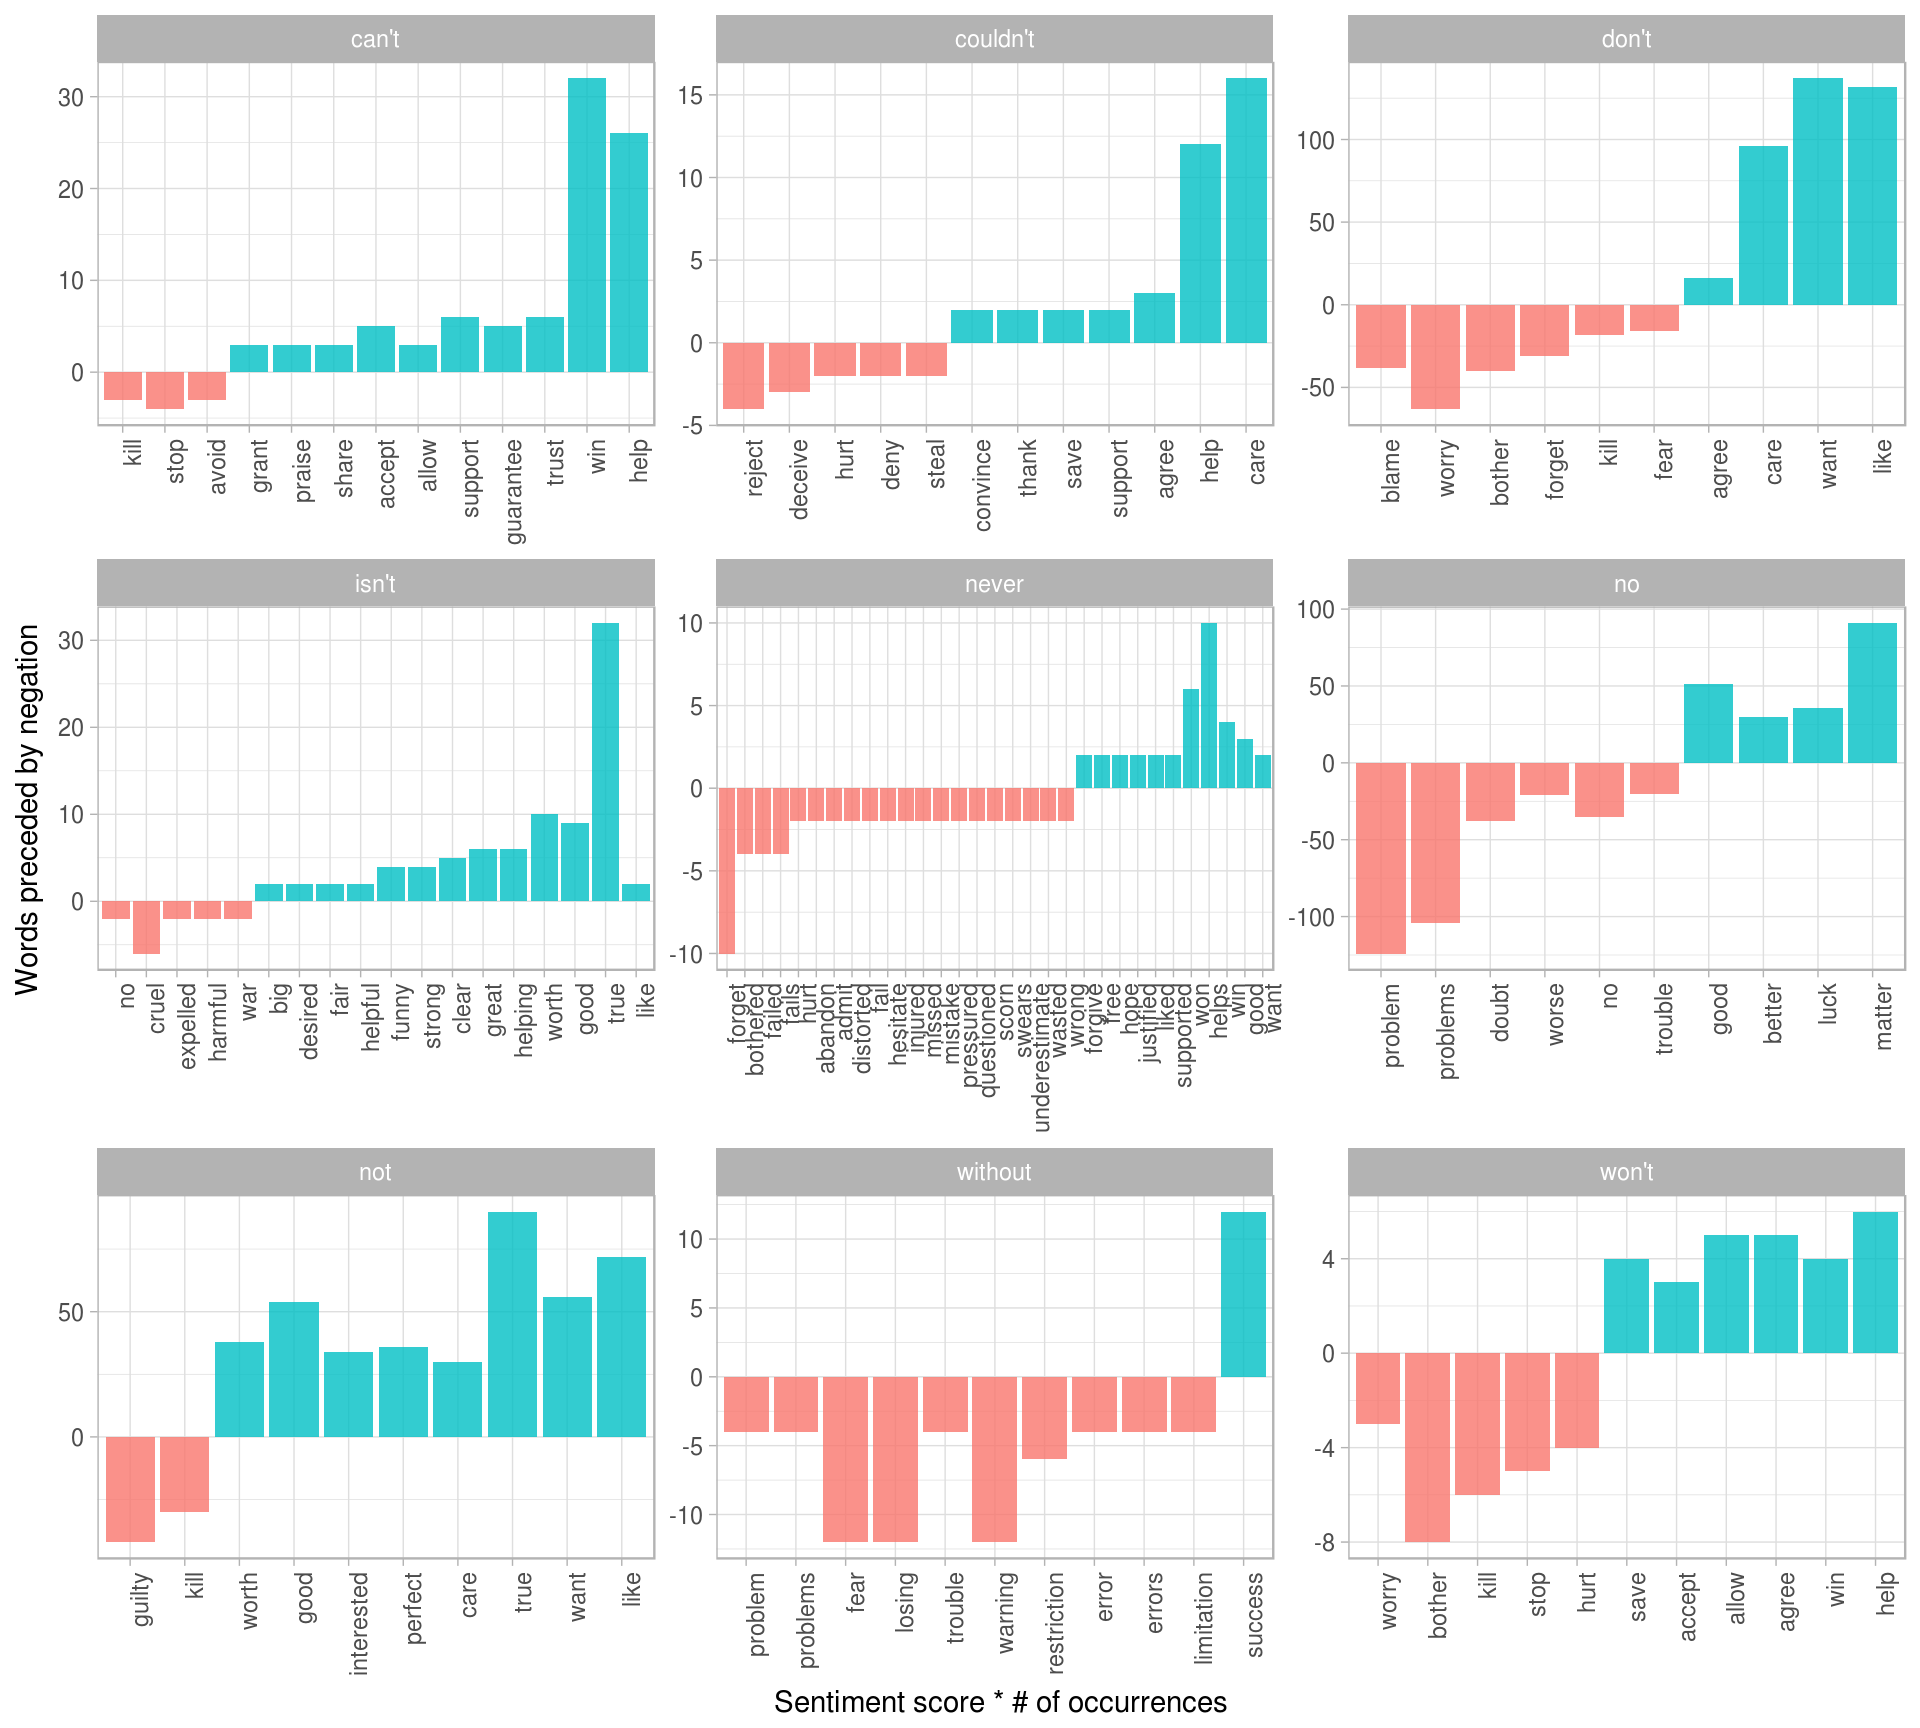
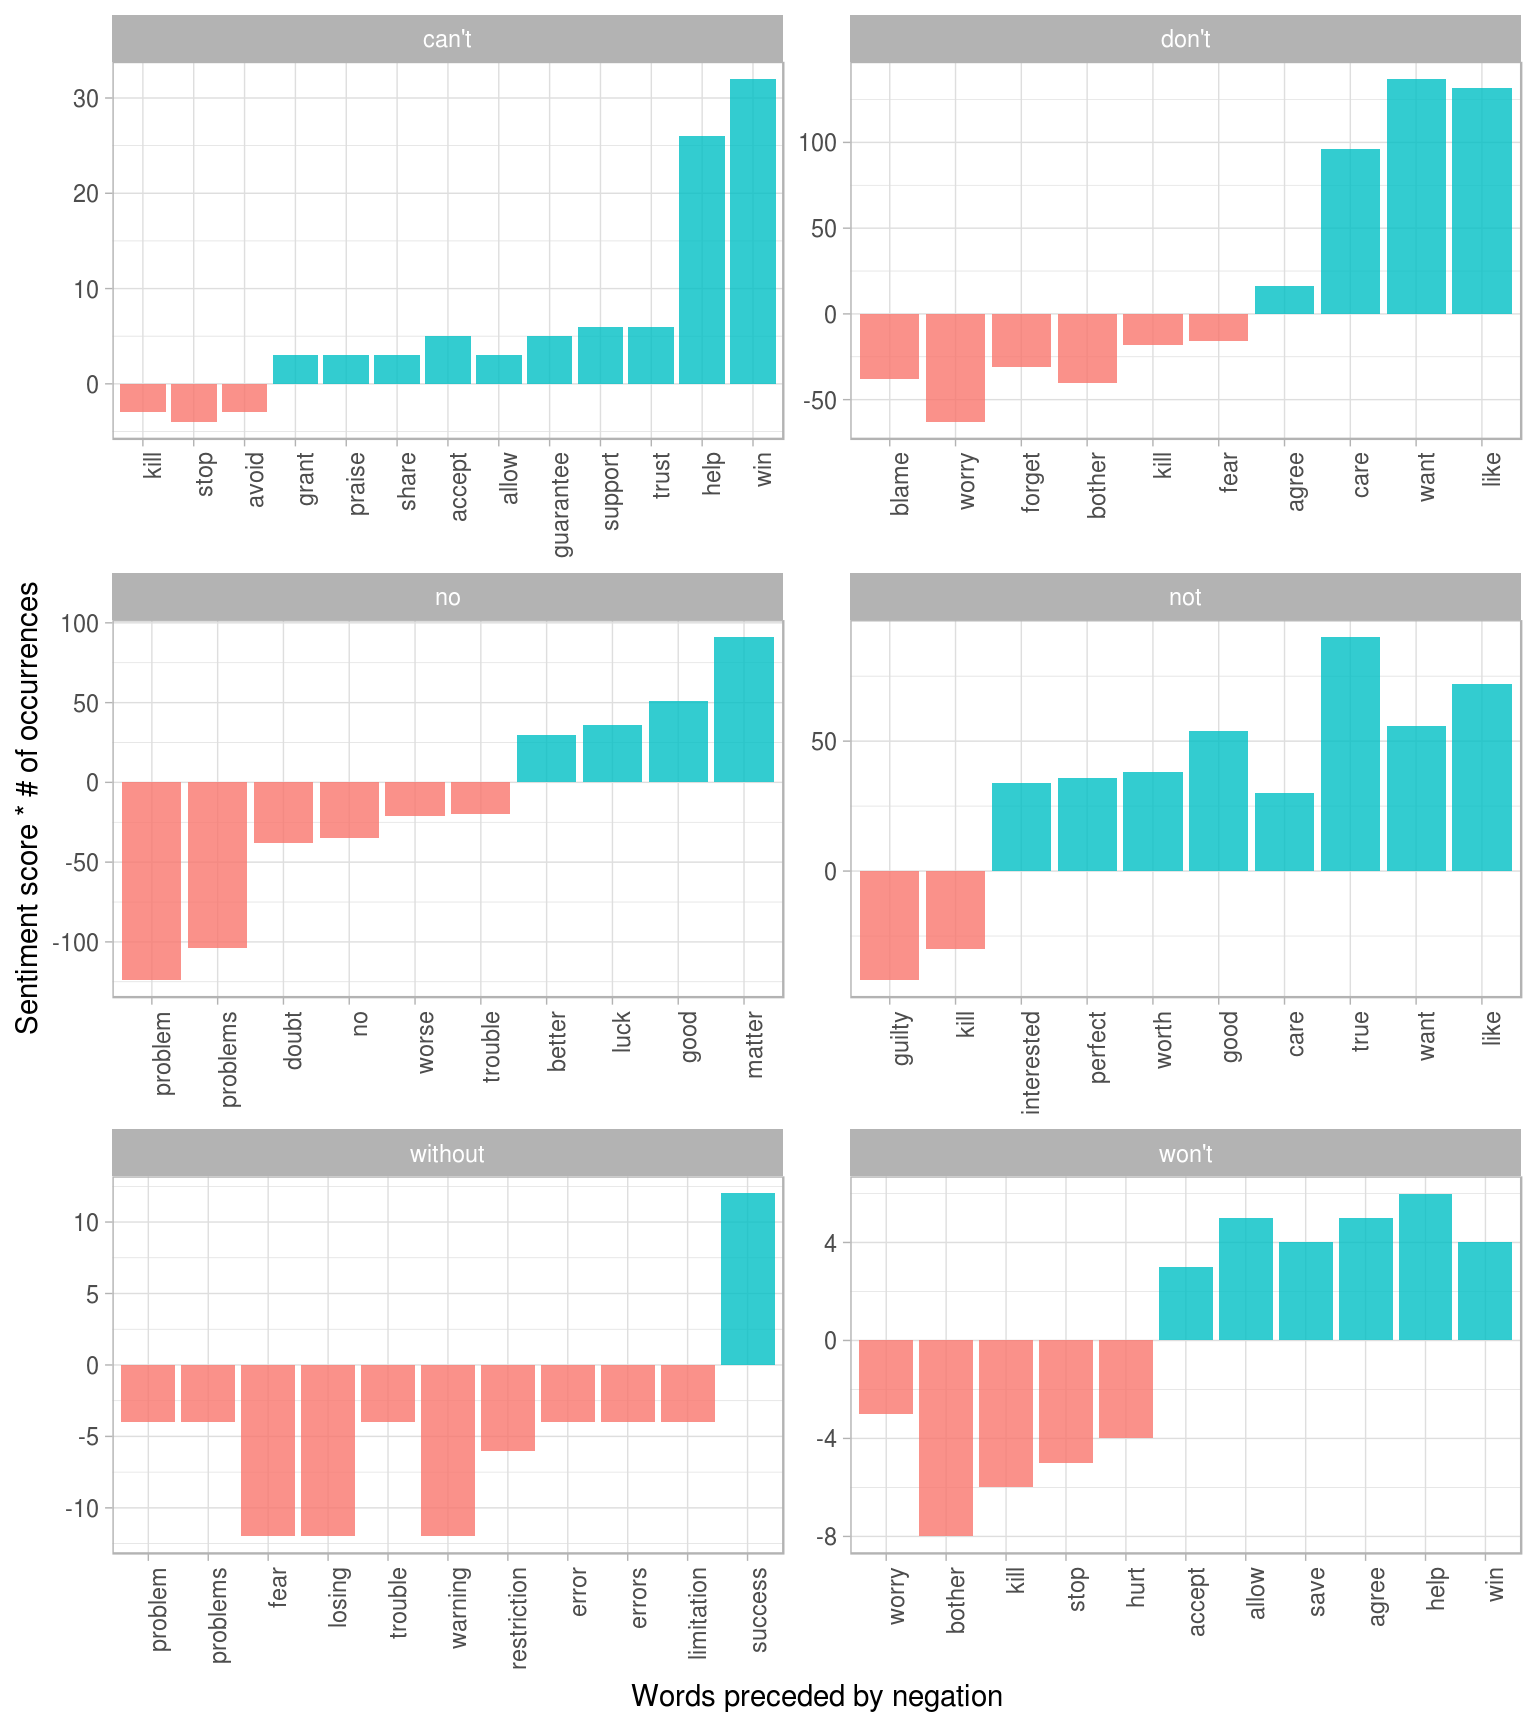
Updating book (111)

diff --git a/usenet.html b/usenet.html
@@ -572,8 +572,7 @@ bigram_tf_idf %&gt;%
 ## 10           comp.windows.x            x char    98 0.001061709 2.995732 0.003180596
 ## # ... with 1,006,405 more rows</code></pre>
 <p>Now we come back to the words used in negation that we are interested in examining. Let’s define a vector of words that we suspect are used in negation, and use the same joining and counting approach from <a href="ngrams.html#ngrams">Chapter 5</a> to examine all of them at once.</p>
-<div class="sourceCode"><pre class="sourceCode r"><code class="sourceCode r">negate_words &lt;-<span class="st"> </span><span class="kw">c</span>(<span class="st">&quot;not&quot;</span>, <span class="st">&quot;without&quot;</span>, <span class="st">&quot;no&quot;</span>, <span class="st">&quot;isn&#39;t&quot;</span>, <span class="st">&quot;can&#39;t&quot;</span>, <span class="st">&quot;don&#39;t&quot;</span>,
-                  <span class="st">&quot;won&#39;t&quot;</span>, <span class="st">&quot;couldn&#39;t&quot;</span>, <span class="st">&quot;never&quot;</span>)
+<div class="sourceCode"><pre class="sourceCode r"><code class="sourceCode r">negate_words &lt;-<span class="st"> </span><span class="kw">c</span>(<span class="st">&quot;not&quot;</span>, <span class="st">&quot;without&quot;</span>, <span class="st">&quot;no&quot;</span>, <span class="st">&quot;can&#39;t&quot;</span>, <span class="st">&quot;don&#39;t&quot;</span>, <span class="st">&quot;won&#39;t&quot;</span>)
 
 usenet_bigram_counts %&gt;%
 <span class="st">  </span><span class="kw">ungroup</span>() %&gt;%
@@ -588,10 +587,10 @@ usenet_bigram_counts %&gt;%
 <span class="st">  </span><span class="kw">ggplot</span>(<span class="kw">aes</span>(word2, contribution, <span class="dt">fill =</span> contribution &gt;<span class="st"> </span><span class="dv">0</span>)) +
 <span class="st">  </span><span class="kw">geom_bar</span>(<span class="dt">alpha =</span> <span class="fl">0.8</span>, <span class="dt">stat =</span> <span class="st">&quot;identity&quot;</span>, <span class="dt">show.legend =</span> <span class="ot">FALSE</span>) +
 <span class="st">  </span><span class="kw">facet_wrap</span>(~<span class="st"> </span>word1, <span class="dt">scales =</span> <span class="st">&quot;free&quot;</span>, <span class="dt">nrow =</span> <span class="dv">3</span>) +
-<span class="st">  </span><span class="kw">ylab</span>(<span class="st">&quot;Words preceded by negation&quot;</span>) +
-<span class="st">  </span><span class="kw">xlab</span>(<span class="st">&quot;Sentiment score * # of occurrences&quot;</span>) +
+<span class="st">  </span><span class="kw">xlab</span>(<span class="st">&quot;Words preceded by negation&quot;</span>) +
+<span class="st">  </span><span class="kw">ylab</span>(<span class="st">&quot;Sentiment score * # of occurrences&quot;</span>) +
 <span class="st">  </span><span class="kw">theme</span>(<span class="dt">axis.text.x =</span> <span class="kw">element_text</span>(<span class="dt">angle =</span> <span class="dv">90</span>, <span class="dt">hjust =</span> <span class="dv">1</span>))</code></pre></div>
-<p><img src="10-usenet_files/figure-html/negate_words-1.png" width="960" /></p>
+<p><img src="10-usenet_files/figure-html/negate_words-1.png" width="768" /></p>
 <p>These words are the ones that contribute the most to the sentiment scores in the wrong direction, because they are being used with negation words before them. Phrases like “no problem” and “don’t want” are important sources of misidentification.</p>
 
 </div>

diff --git a/10-usenet.md b/10-usenet.md
@@ -518,8 +518,7 @@ Now we come back to the words used in negation that we are interested in examini
 
 
 ```r
-negate_words <- c("not", "without", "no", "isn't", "can't", "don't",
-                  "won't", "couldn't", "never")
+negate_words <- c("not", "without", "no", "can't", "don't", "won't")
 
 usenet_bigram_counts %>%
   ungroup() %>%
@@ -534,12 +533,12 @@ usenet_bigram_counts %>%
   ggplot(aes(word2, contribution, fill = contribution > 0)) +
   geom_bar(alpha = 0.8, stat = "identity", show.legend = FALSE) +
   facet_wrap(~ word1, scales = "free", nrow = 3) +
-  ylab("Words preceded by negation") +
-  xlab("Sentiment score * # of occurrences") +
+  xlab("Words preceded by negation") +
+  ylab("Sentiment score * # of occurrences") +
   theme(axis.text.x = element_text(angle = 90, hjust = 1))
 ```
 
-<img src="10-usenet_files/figure-html/negate_words-1.png" width="960" />
+<img src="10-usenet_files/figure-html/negate_words-1.png" width="768" />
 
 These words are the ones that contribute the most to the sentiment scores in the wrong direction, because they are being used with negation words before them. Phrases like "no problem" and "don't want" are important sources of misidentification.
 
